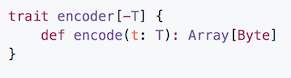
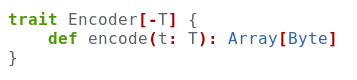
correct capitals on q5

Changed region(s): [[0.0, 0.1026, 0.9588, 0.5897], [0.0309, 0.5897, 0.0619, 0.8205]]

diff --git a/src/data/quiz-data.js b/src/data/quiz-data.js
@@ -43,8 +43,8 @@ export const questions = [
     "question": "What is true regarding the following definition?",
     "image":"q5.png",
     "answers": [
-      "Encode[Any] is a subtype of encoder[SString]",
-      "Encoder[Int] is a subtype of Ecoder[Anyval]",
+      "Encoder[Any] is a subtype of Encoder[String]",
+      "Encoder[Int] is a subtype of Encoder[AnyVal]",
       "Encoder[String] is a subtype of Encoder[Any]"
     ],
     "correct": 0
